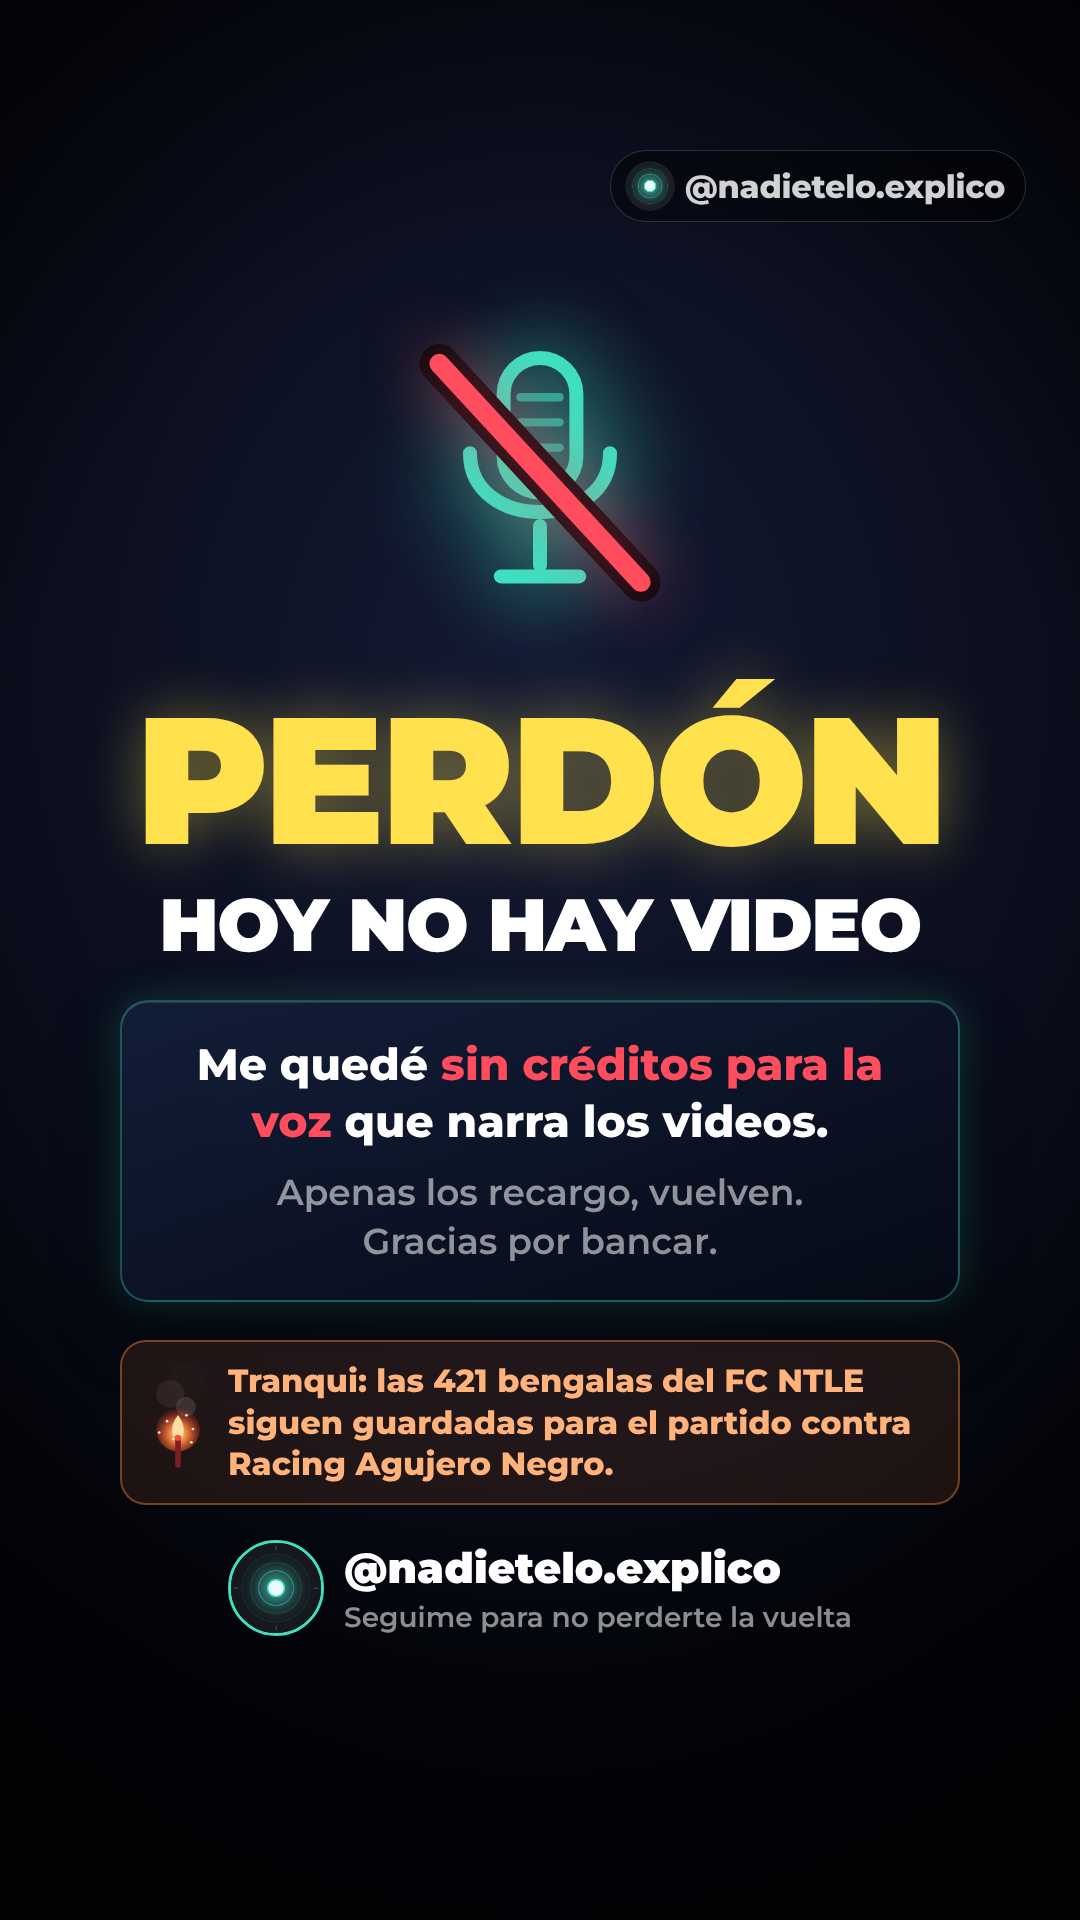
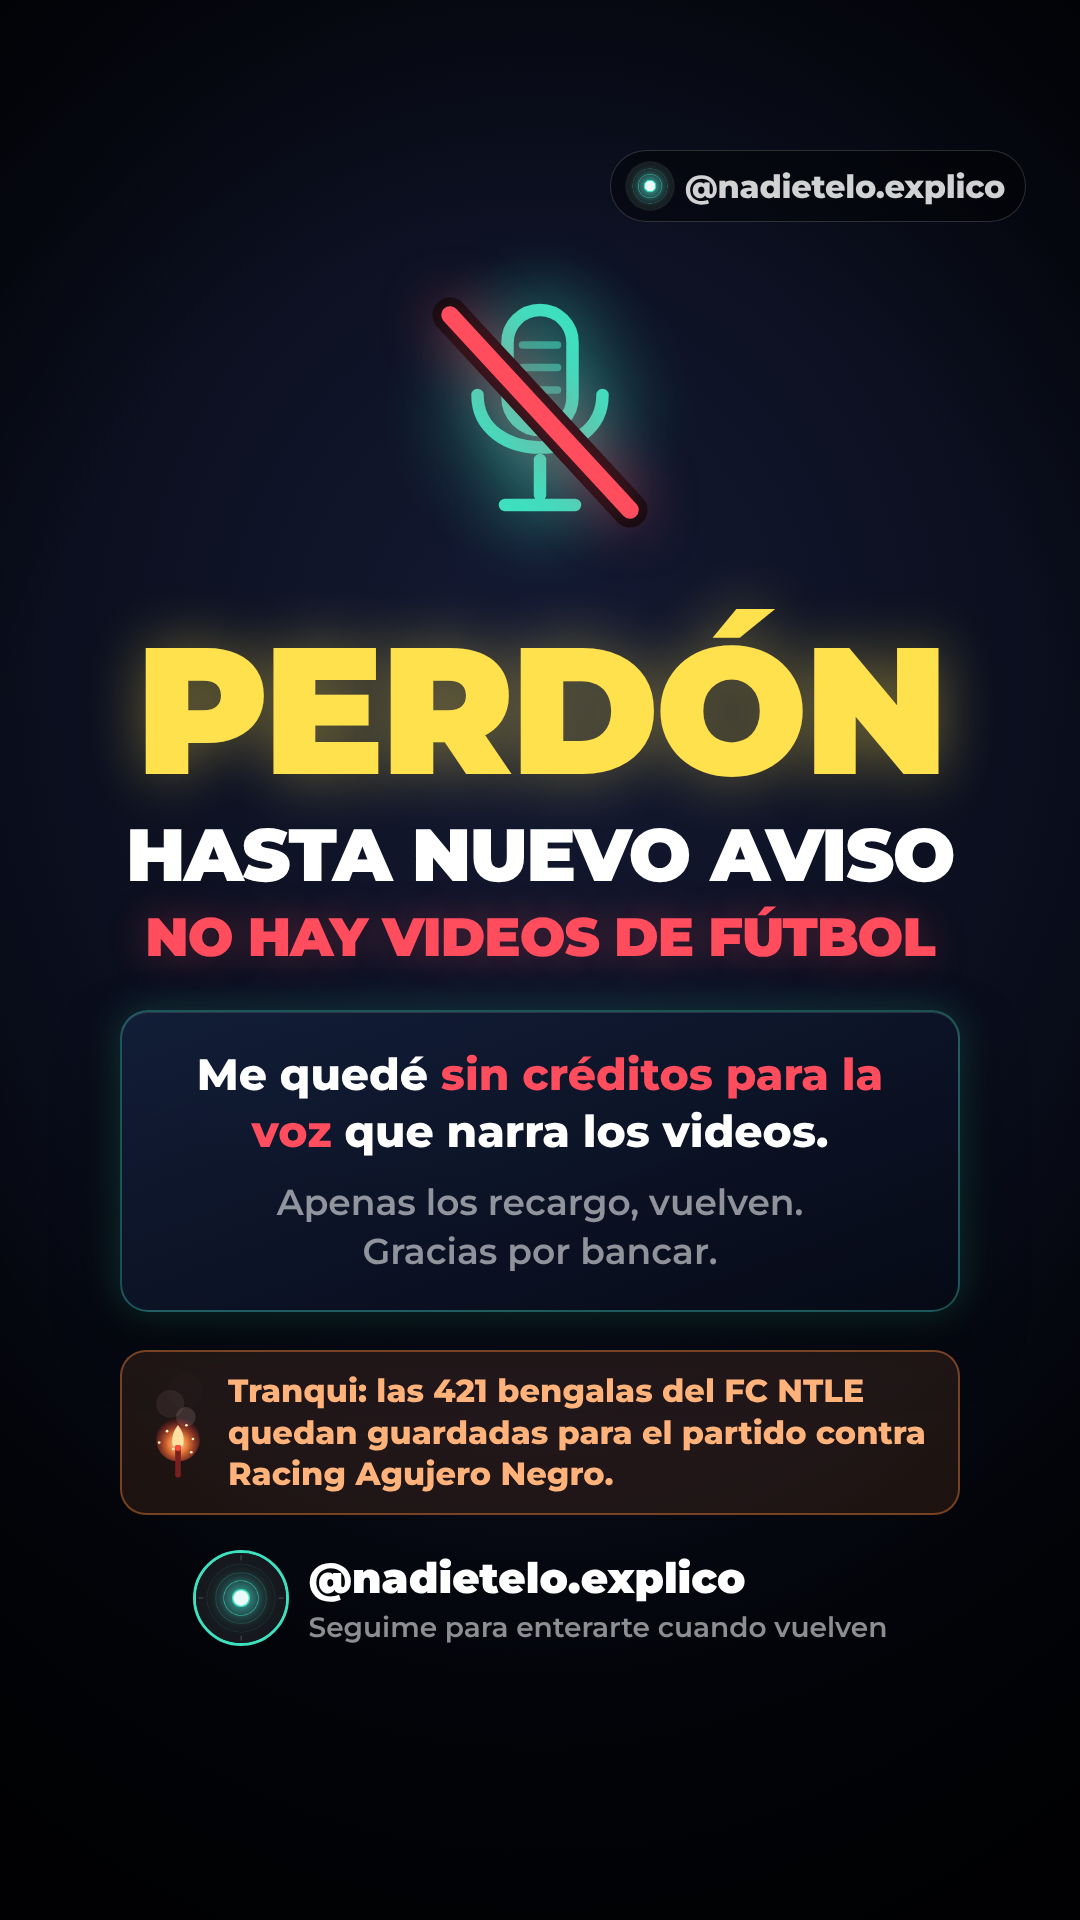
Cambiar el aviso: hasta nuevo aviso no hay videos de fútbol
La imagen ahora dice que la pausa es hasta nuevo aviso, por falta de
créditos para la voz. La pausa queda anotada en SERIE.md y en el traspaso.

Claude-Session: https://claude.ai/code/session_01BbNqZGHLrgqfCjimCaRt6Z

Changed region(s): [[0.1222, 0.5312, 0.8861, 0.875], [0.1222, 0.125, 0.8861, 0.5312], [0.7944, 0.5312, 0.825, 0.5938]]

diff --git a/club-hinchas/src/avisos/SinVoz.tsx b/club-hinchas/src/avisos/SinVoz.tsx
@@ -7,7 +7,7 @@ import fixture from "../liga/fixture.json";
 import redes from "../liga/redes.json";
 import { C, DISPLAY } from "../theme";
 
-// Aviso 9:16 para TikTok: hoy no hay video porque no quedan créditos para la voz.
+// Aviso 9:16 para TikTok: hasta nuevo aviso no hay videos de fútbol porque no quedan créditos para la voz.
 const ROJO = "#ff4d5e";
 const NARANJA = "#ff8a3d";
 const BENGALAS = redes.bengalas.acumuladas;
@@ -32,16 +32,17 @@ export const AvisoSinVoz: React.FC = () => (
   <AbsoluteFill style={{ backgroundColor: C.bg }}>
     <Background tint="#141a34" />
     <Watermark />
-    <div style={{ position: "absolute", left: 0, right: 0, top: 290, display: "flex", justifyContent: "center" }}>
-      <div style={{ width: 360, height: 360, borderRadius: "50%", background: "radial-gradient(circle, rgba(62,224,192,0.14), rgba(62,224,192,0) 70%)", display: "flex", alignItems: "center", justifyContent: "center" }}>
-        <MicSinVoz size={280} />
+    <div style={{ position: "absolute", left: 0, right: 0, top: 250, display: "flex", justifyContent: "center" }}>
+      <div style={{ width: 320, height: 320, borderRadius: "50%", background: "radial-gradient(circle, rgba(62,224,192,0.14), rgba(62,224,192,0) 70%)", display: "flex", alignItems: "center", justifyContent: "center" }}>
+        <MicSinVoz size={250} />
       </div>
     </div>
-    <div style={{ position: "absolute", left: 0, right: 0, top: 690, display: "flex", flexDirection: "column", alignItems: "center", gap: 18 }}>
+    <div style={{ position: "absolute", left: 0, right: 0, top: 620, display: "flex", flexDirection: "column", alignItems: "center", gap: 18 }}>
       <div style={{ fontFamily: DISPLAY, fontWeight: 900, fontSize: 180, color: C.yellow, letterSpacing: -4, lineHeight: 1, textShadow: `0 0 60px ${C.yellow}66` }}>PERDÓN</div>
-      <div style={{ fontFamily: DISPLAY, fontWeight: 900, fontSize: 74, color: C.white, letterSpacing: -1.5, lineHeight: 1 }}>HOY NO HAY VIDEO</div>
+      <div style={{ fontFamily: DISPLAY, fontWeight: 900, fontSize: 74, color: C.white, letterSpacing: -1.5, lineHeight: 1 }}>HASTA NUEVO AVISO</div>
+      <div style={{ fontFamily: DISPLAY, fontWeight: 900, fontSize: 54, color: ROJO, letterSpacing: -1, lineHeight: 1, textShadow: `0 0 40px ${ROJO}55` }}>NO HAY VIDEOS DE FÚTBOL</div>
     </div>
-    <div style={{ position: "absolute", left: 120, right: 120, top: 1000 }}>
+    <div style={{ position: "absolute", left: 120, right: 120, top: 1010 }}>
       <Panel glow={TEAL} style={{ padding: "34px 40px", textAlign: "center" }}>
         <div style={{ fontFamily: DISPLAY, fontWeight: 800, fontSize: 44, color: C.white, lineHeight: 1.3 }}>
           Me quedé <span style={{ color: ROJO }}>sin créditos para la voz</span> que narra los videos.
@@ -54,18 +55,18 @@ export const AvisoSinVoz: React.FC = () => (
       </Panel>
     </div>
     {RIVAL && BENGALAS > 0 ? (
-      <div style={{ position: "absolute", left: 120, right: 120, top: 1340, display: "flex", alignItems: "center", gap: 22, padding: "18px 28px", borderRadius: 26, background: "rgba(255,138,61,0.1)", border: `2px solid ${NARANJA}66` }}>
+      <div style={{ position: "absolute", left: 120, right: 120, top: 1350, display: "flex", alignItems: "center", gap: 22, padding: "18px 28px", borderRadius: 26, background: "rgba(255,138,61,0.1)", border: `2px solid ${NARANJA}66` }}>
         <Bengala size={56} frame={6} seed={1} />
         <div style={{ fontFamily: DISPLAY, fontWeight: 800, fontSize: 32, color: "#ffb27a", lineHeight: 1.3 }}>
-          Tranqui: las {fmt(BENGALAS)} bengalas del FC NTLE siguen guardadas para el partido contra {equipo(RIVAL).nombre}.
+          Tranqui: las {fmt(BENGALAS)} bengalas del FC NTLE quedan guardadas para el partido contra {equipo(RIVAL).nombre}.
         </div>
       </div>
     ) : null}
-    <div style={{ position: "absolute", left: 0, right: 0, top: 1540, display: "flex", justifyContent: "center", alignItems: "center", gap: 20 }}>
+    <div style={{ position: "absolute", left: 0, right: 0, top: 1550, display: "flex", justifyContent: "center", alignItems: "center", gap: 20 }}>
       <Img src={staticFile("logo.png")} style={{ width: 96, height: 96, borderRadius: "50%", border: `3px solid ${TEAL}` }} />
       <div style={{ display: "flex", flexDirection: "column", gap: 6 }}>
         <div style={{ fontFamily: DISPLAY, fontWeight: 900, fontSize: 42, color: C.white }}>@nadietelo.explico</div>
-        <div style={{ fontFamily: DISPLAY, fontWeight: 600, fontSize: 28, color: C.dim }}>Seguime para no perderte la vuelta</div>
+        <div style={{ fontFamily: DISPLAY, fontWeight: 600, fontSize: 28, color: C.dim }}>Seguime para enterarte cuando vuelven</div>
       </div>
     </div>
   </AbsoluteFill>

diff --git a/traspaso/CONTEXTO.md b/traspaso/CONTEXTO.md
@@ -107,6 +107,7 @@ Los proyectos `club-*` nuevos y `youtube-canal` usan las dependencias de `club-h
   - Las funciones `chanceVisitanteVs()` y `bengalasParaTope()` de `Futbol.tsx` dan la chance de visitante y cuántas bengalas faltan para el tope.
 - **Suspenso en los videos del club** (desde la fecha 4): pregunta en el primer segundo ("¿le podemos ganar al tercero?"), barra de "LA RESPUESTA" arriba que se llena hasta el número final y un adelanto sin resolver ("¿llegamos antes del partido?").
 - **ElevenLabs:** el 6/11 quedaron ~337 créditos; una toma de 55 s cuesta 920. Hay que recargar antes del próximo video con voz.
+- **Pausa (7/11/2026):** por falta de créditos, el usuario avisó que **hasta nuevo aviso no hay videos de fútbol**. Se publicó la imagen `club-hinchas/entrega/avisos/disculpas-sin-voz.png` (composición `Aviso-SinVoz`). La fecha 5 queda sin jugar hasta que el usuario la retome; las 421 bengalas siguen guardadas en `redes.json`.
 - **Resto del fixture del club:**
   - F4: Gravedad (V)
   - F5: Agujero Negro (L)

diff --git a/club-hinchas/SERIE.md b/club-hinchas/SERIE.md
@@ -144,3 +144,4 @@ Cuando el club tenga nombre, lo cargo con `node scripts/liga.mjs club --nombre "
   - Fecha 4: Atlético Gravedad 3-0 FC NTLE, de visitante. Antes del partido la chance de ganar era 6 % (13 % de empate, 81 % de perder). El club bajó al 7.º puesto, con 6 puntos, a 4 del puntero.
   - Fecha 5: de local contra Racing Agujero Negro (3.º). Con 1.307 hinchas: 45 % sin bengalas y **66 % con las 421**. El tope de 90 % llega con 905 bengalas: faltan 484, que pueden salir de los compartidos del video de la fecha 4.
   - El video suma la barra de suspenso "LA RESPUESTA" (pregunta: "¿le podemos ganar al tercero?").
+- **7/11/2026, pausa:** sin créditos de ElevenLabs para la voz, el usuario avisó en TikTok que hasta nuevo aviso no hay videos de fútbol (`entrega/avisos/disculpas-sin-voz.png`). La fecha 5 queda pendiente, con las 421 bengalas guardadas.
